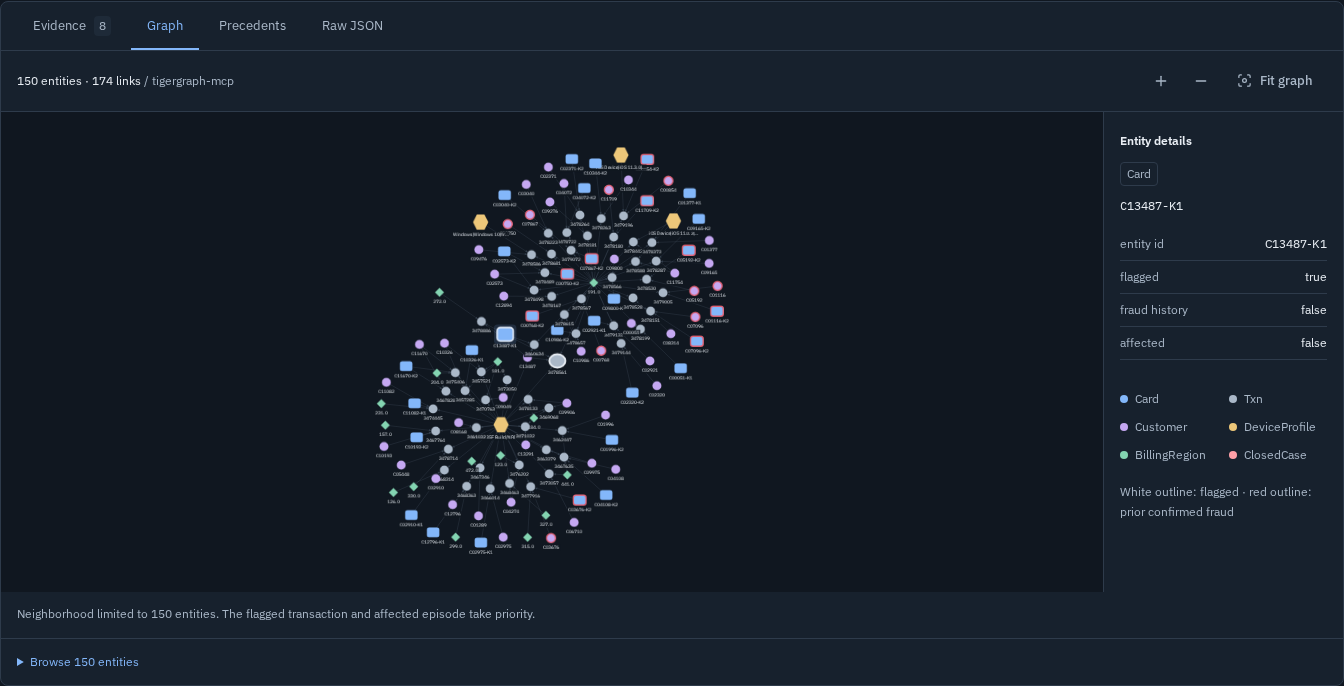
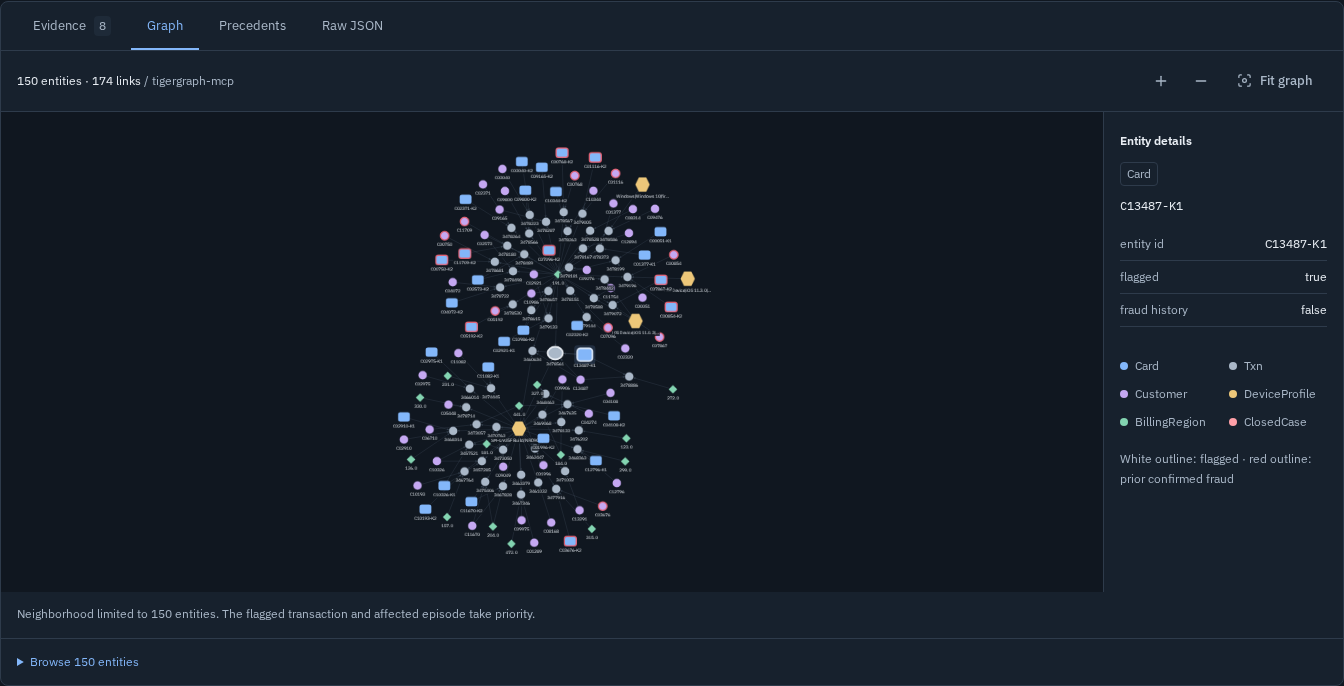
Record overnight delivery results limits and submission checklist

diff --git a/docs/MORNING_REPORT.md b/docs/MORNING_REPORT.md
@@ -1,0 +1,83 @@
+# FRAUDLOOP morning report
+
+25 September 2026 · overnight-build · completed before the 11:30 IST deadline.
+
+The analyst console, API, replay, policy audit, launch files, screenshots and writing drafts are implemented and committed locally. **Pushing is blocked because this repository has no configured remote.** Three push attempts returned `fatal: No configured push destination.` The retry limit was respected; no remote was invented, no history was rewritten, and `submission-safe-v1` was not changed.
+
+The **20 graded answers are byte-for-byte unchanged**, including versus `submission-safe-v1`: **9 fraud, 8 legitimate, 3 uncertain; 2 SAR recommendations**, on HHG-006 and HHG-014. `.env` and the original transaction store also match their starting checksums. No schema change, graph reset, embedding job, answer regeneration, external bank action, or social post was performed. All demo servers started for testing have been stopped.
+
+## Start the demo
+
+Dependencies are installed in this checkout. From the repository root:
+
+```bash
+make demo
+```
+
+- Console: **http://localhost:5173**
+- API: **http://127.0.0.1:8000**
+- Interactive API documentation: **http://127.0.0.1:8000/docs**
+- Press **Ctrl+C** to stop both servers. The launcher refuses occupied ports and cleans up only its own processes.
+
+Use **Replay** on **HHG-014** for the shared-device investigation and L2 SAR/card-block routes. Use **HHG-002** for the explicit simulated confirmation that changes the recommendation: probability 0.4335 to 0.04, verification/monitoring to closure as legitimate. For a demo with all graph views using prepared local data, run `FRAUDLOOP_LOCAL_ONLY=1 make demo`.
+
+**Run live** invokes the real agent and saves a separate runtime snapshot. Graded answers remain untouched. Backend narration defaults to templates; `FRAUDLOOP_ENABLE_LLM=1 make demo` enables the configured text chain with a persistent 60-attempt budget. Live retrieval can require query-embedding providers and quota, so use Replay while recording.
+
+## Completed by phase
+
+| Phase | Delivered | Verification / limits |
+|---|---|---|
+| 1 · Policy audit | [All 20 cases tabulated](policy-audit.md): verdict, probability, pattern, exposure, links, actions/routes, SAR, evidence changes and stopping. | No unambiguous violation warranted changing policy or answers. All 20 validate. Audit discusses coarse-fingerprint and HHG-006 R9 interpretation limits. |
+| 2 · Backend | All requested FastAPI routes, background POST SSE, serialized MCP access, GSE write guards, trigger creation, bounded graphs, cached health/index status, role approvals and persistent audit. | Endpoint smoke passed, including expected viewer 403. Real local benchmark and new runtime investigations passed. Two later runtime runs proved earlier runtime memory is retrievable and validates. |
+| 3 · Frontend | Queue/filter/sort/new-trigger dialog; three-column detail with timeline, NBA comparison, SAR and evidence/graph/precedent/JSON tabs; approvals and memory; dark/light themes and service status. | Production build and TypeScript pass. Playwright passed replay, roles, data tabs, light theme, dialog focus and 375/768/1280/1600px layouts with zero console errors. |
+| 4 · Reliability / delivery | Optional core event hooks; `run_cases` timeline capture; 20 committed replay files; Makefile, cleanup-aware launcher, Dockerfiles/Compose, architecture/setup README and seven screenshots. | `make demo` was run and stopped successfully. Shell and both Compose configurations validate. Images were not built or launched: Docker VM headroom is too small; see limits below. |
+| 5 · Writing | [Blog](blog.md), [four-minute video script](video-script.md), [social drafts](social-post.md). | Blog: 1,425 words. LinkedIn: about 150 words. X: 243 characters including link placeholders. Nothing published. |
+| 6 · Report / handoff | This report, [running log](overnight-log.md), updated AGENTS.md and milestone commits. | Local delivery complete. Push requires an actual remote destination. |
+
+The replay files contain **537 events** reconstructed from the preserved answers and original traces. They are explicitly labeled; missing historical per-tool timings and row counts are `null`, never invented. Original trace offsets are retained and playback delays are illustrative. Newly run investigations record measured events. Replay itself makes no graph or LLM calls; separately opened graph views and health indicators may perform read-only MCP calls unless local-only mode is enabled.
+
+Independent review found and fixed four issues before delivery: earlier runtime IDs missing from validation, failed live runs replacing good replay, graph audit history lost on rerun, and approvals reused after changed evidence. The backend now atomically promotes answer/trace/timeline snapshots before `done`, preserves failed attempts separately, validates persisted runtime trigger identities, retains approval history, and renews approvals for changed evidence.
+
+## Validation
+
+| Command / check | Result |
+|---|---|
+| `.venv/bin/python -m pytest -q` | **212 passed in 4.88s**, including the final structured-logging regression check. |
+| `.venv/bin/python -m scripts.validate` | All 20 answers pass schema, identifiers, exposure, chronology, routes and policy checks. |
+| `.venv/bin/python -m pip check` | No broken requirements. |
+| `npm --prefix frontend run build` | Pass; React production assets generated. |
+| `cd frontend && npx tsc --noEmit` | Pass. |
+| `scripts/smoke_api.sh` against isolated uvicorn | Every endpoint returned success; viewer approval returned expected 403. Replay completed. Only an isolated queued trigger was created. |
+| `.venv/bin/python -m scripts.browser_smoke` with installed Playwright/Chromium | Pass against the final reviewed backend; zero console errors. No live run or approval submission. |
+| `bash -n scripts/demo.sh scripts/run_cases_guarded.sh scripts/smoke_api.sh` | Pass. |
+| `docker compose config --quiet` and graph-override variant | Pass. No image build or Compose deployment. |
+| `git diff --check` and preservation checks | Pass; graded answers, `.env`, store and safe tag preserved. No prohibited data/secrets tracked. |
+
+Read-only live health verified **GSE, GPE and RESTPP up**, and the official MCP session initialized. HHG-014 graph exploration returned **150 entities and 174 links**. The actual MCP `get_node` response for HHG-014 was checked against the audit adapter's parser. No live graph write or live Gemini narration was performed during validation; write guards, partial audit upserts and role permissions have regression coverage, while actual state-machine execution was tested with isolated local data and no model calls.
+
+Evidence files retained locally under ignored `data/runs/`: `backend_core_integration.json`, `backend_final_integration.json`, `backend_mcp_read_smoke.json`, and `browser_smoke.json`. Screenshots are committed under [docs/screenshots](screenshots/): queue, HHG-014 detail, graph, approvals, memory, light memory, and mobile case.
+
+## Failures, recovery and limits
+
+- **Push blocked:** `fatal: No configured push destination.` Three attempts, then stopped that step. Configure the intended remote yourself and run `git push -u origin overnight-build`; do not force-push or merge to main for this delivery.
+- **Sandbox Docker access:** `permission denied while trying to connect to the docker API at unix:///home/utkarsh/.docker/desktop/docker.sock`. Authorized elevated execution resolved the read-only checks.
+- **Initial dependency download:** `Failed to resolve 'pypi.org' ([Errno -2] Name or service not known)` followed by `No matching distribution found for fastapi<1,>=0.115`. This was sandbox DNS/network access, not a missing package; authorized installation succeeded. FastAPI 0.141.1 and Playwright 1.63.0 are installed in `.venv`.
+- **Sandbox TestClient hang:** the focused backend run stalled without a Python application exception. The same tests and complete suite passed outside that restriction.
+- **Browser selector error:** `Locator expected to be disabled` / `element(s) not found`. The test used `Approve` while accessible labels include the action and case; the selector was corrected.
+- **Mobile overflow:** `AssertionError: ('/', 375, {'width': 375, 'scroll': 1045})`. Hidden table labels escaped the scroll container. A positioned container fixed it; all four viewport sizes subsequently passed.
+- **Docker images unverified:** `tg` used **2.965 GiB of a 3.647 GiB Docker VM**. Images and Compose runtime were deliberately not exercised alongside that load. Use the verified native `make demo` path; allocate adequate Docker memory before trying container builds or live container investigations.
+- **Model/vector limits:** validation consumed **zero LLM calls** and started no embedding jobs. Snapshot checkpoint coverage was gem001 1,500/5,577, gem2 259/5,577, BGE 5,577/5,577, Gemma 0, preview 0. These are previous-upload checkpoints, not fresh graph vector inventory. Live text availability and model downloads were not re-established.
+- **Demo permissions:** `X-Role` is a local demonstration switch, not authenticated bank identity. Approval records do not execute actions. Keep the service on a trusted workstation.
+
+## Ten checks before submission
+
+1. [ ] Run `make validate` and confirm all 20 graded files pass.
+2. [ ] Read [policy-audit.md](policy-audit.md), especially shared-profile interpretation and HHG-006 versus HHG-014.
+3. [ ] Run `make test` and `npm --prefix frontend run build` in your final checkout.
+4. [ ] Start `make demo`; confirm queue, detail, graph, approvals and memory open.
+5. [ ] Rehearse HHG-014 and HHG-002 using **Replay**, retaining reconstructed-event and simulation disclosures.
+6. [ ] Check the role switch: viewer cannot decide, L1 cannot decide L2, and L2 can review both; do not confuse approval with execution.
+7. [ ] Review screenshots and record the four-minute video using [video-script.md](video-script.md).
+8. [ ] Review the blog/social drafts and replace `[BLOG_LINK]` / `[VIDEO_LINK]`; publish only after your review.
+9. [ ] Configure the correct Git remote, inspect `git ls-files` for secrets/datasets, then push **overnight-build** without force or a main merge; preserve `submission-safe-v1`.
+10. [ ] Confirm the submission links and `cases/HHG-001.json` through `HHG-020.json` are accessible, then stop demo servers with Ctrl+C.

diff --git a/AGENTS.md b/AGENTS.md
@@ -191,3 +191,18 @@ Cache: `data/embeddings/gemini-embedding-001-768.json`. Model: `gemini-embedding
 - After a successful Gemma encode during ingestion, actual device/batch size/precision are logged and recorded in the Gemma entry of `data/embedding_indexes.json`, run status, and `data/embedding_index.json` under `runtime.gemma`. Legacy ownership/recovery fields are preserved. Local graph runs use separate `.local.json` manifests. `scripts.embed_status` reports the last recorded ingestion device, or `unknown`; cached-only runs preserve existing device metadata. Query-only embedding calls do not rewrite ingestion metadata.
 - `.env.example` and README document the setting; the existing `.env` was not edited. No ingestion, graph migration, model download, or answer regeneration was performed. Runtime manifests are populated on the next successful Gemma ingestion, not fabricated from device availability.
 - Verification: `.venv/bin/python -m pytest -q` passed **159 tests**; `.venv/bin/python -m scripts.validate` validated all 20 saved answers; the read-only `scripts.embed_status` command and `git diff --check` passed. Device/OOM and ingestion-persistence checks use mocked torch/model calls, including local-manifest isolation. PyTorch was absent in this virtual environment, so real CUDA execution was not verified.
+
+
+## Overnight console delivery (2026-09-25)
+
+- The explicit overnight request authorized the React/FastAPI UI. Work was performed only on `overnight-build`; `submission-safe-v1` and all 20 `cases/*.json` files are unchanged. Phase 1 policy audit found no unambiguous violation requiring regeneration: 9 fraud, 8 legitimate, 3 uncertain; 2 SAR recommendations. See `docs/policy-audit.md`.
+- `backend/app.py`, `backend/data.py`, and `backend/services.py` expose the requested queue, detail, timeline, POST SSE live/replay, new-trigger, graph, precedent, approval, health and memory endpoints. One live run and MCP access are serialized. GSE status/restart guards precede writes; unavailable graph operations use a disclosed local fallback. No schema or embedding job was run.
+- The core has only additive optional `emit(event_type, payload)` observers in `agent/investigate.py`, with helpers in `agent/events.py`. Policy/assessment/model/embedding/answer behavior is preserved. `scripts.run_cases` saves actual events to `data/timelines/`; `scripts.replay_timelines` produced 20 explicitly reconstructed legacy timelines from preserved answers/traces. Missing historical tool durations/rows are null.
+- API live results use atomic `data/runtime_cases/<id>.json` snapshot envelopes containing answer, trace, timeline and run_id. Repository helpers unwrap them. Failed attempts go to `data/runtime_failed_timelines/` and cannot replace a successful replay. API runs never write graded cases or the original pickle. All authentic persisted runtime triggers enter the in-memory validation pack; only earlier saved agent conclusions seed local memory.
+- Approval identity includes the answer's case/SAR/actions so changed evidence requires new review. Durable local approval records and existing graph audit entries are merged before subsequent FraudCase upserts. X-Role is a local demo permission switch, not authentication; no bank action is executed.
+- `frontend/` is React 18/Vite/TypeScript/Tailwind/TanStack Query/Cytoscape. Queue, three-column case detail, approvals and memory work with dark/light themes, responsive views, replay and live stream controls. Saved provenance and graph-write status are labeled honestly.
+- `make demo` starts the native backend and frontend with owned-process cleanup. URLs: http://localhost:5173 and http://127.0.0.1:8000/docs. Use `FRAUDLOOP_LOCAL_ONLY=1 make demo` for fully local views. Backend narration is template by default; `FRAUDLOOP_ENABLE_LLM=1` enables the chain with a persistent 60-attempt budget.
+- Docker/Compose files are present and configuration-validated, but images were not built/run because the existing tg container used 2.965 GiB of a 3.647 GiB VM. Use native startup for the verified demo. Graph Compose override opts into the Docker socket and should remain local.
+- Final verification: 212 Python tests passed in 4.88s, all 20 answers validate, frontend build/TypeScript/pip/diff checks pass. Four real isolated local investigations included new CASE IDs and earlier-runtime retrieval; zero LLM calls and zero live graph writes. Read-only MCP health/get_node/neighborhood worked. Browser replay/roles/theme/focus/responsive checks passed with no console errors. Structured API logs emit JSON once per request and omit request contents.
+- Seven screenshots and blog/video/social drafts are committed in docs. `docs/MORNING_REPORT.md` and `docs/overnight-log.md` are the delivery handoff. All assistant-started demo servers were stopped.
+- No Git remote was configured. Three milestone pushes failed with `fatal: No configured push destination.` Work is committed locally; configure the intended destination before pushing overnight-build. Never force-push, merge to main, or modify the safe tag to finish this delivery.

diff --git a/docs/overnight-log.md b/docs/overnight-log.md
@@ -14,3 +14,12 @@ Deadline: 25 September 2026, 11:30 IST. Started 25 September, approximately 02:2
 | 02:30 | 3 | Queue, filters, sorting, trigger dialog, shell, role switch, themes | `npm run build` and `npx tsc --noEmit` passed. Browser review follows integration. |
 | 02:34 | 2/4 | Event hooks and 20 reconstructed replay timelines | 8 focused observer tests and all 20 answers validate. No answer, graph or model changes; original per-query timings remain unavailable. |
 | 02:34 | 3 | Case Detail with timeline, graph, evidence and before/after actions | Production React build passed; browser verification pending. |
+| 02:40 | Push | Three requested milestone push attempts after tracked-file checks | All failed: `fatal: No configured push destination.` Retry limit reached; further pushes skipped. Local commits retained on overnight-build. |
+| 02:40 | 2/3 | API endpoint smoke, real local benchmark + runtime investigation, UI first pass | 37 backend tests; endpoint smoke passed; two local core runs validated with zero tokens/graph=false; four pages rendered without JS exceptions; live read-only MCP graph returned 150 entities/174 links. |
+| 02:40 | Review | Independent review found runtime memory-ID, failed-replay preservation, approval-history and stale-approval issues | Fixes in progress before final backend validation. |
+| 02:46 | 3 | Browser interaction + responsive verification | Passed replay HHG-014/002, role controls, precedents, JSON, memory, light theme and dialog focus; no console errors; no page overflow at 375/768/1280/1600px. |
+| 02:46 | 3 | Fixed browser test and mobile overflow | First script used a nonmatching accessible name (`Locator expected to be disabled; element(s) not found`); corrected selector. Actual layout failed at 375px (`scroll:1045`); positioned table scroll container to contain hidden labels, then all widths passed. |
+| 02:46 | 4 | Docker resource preflight | tg uses 2.965 GiB of 3.647 GiB VM; Compose config validated, image builds/runtime deliberately not attempted with this headroom. |
+| 02:52 | 2/3 | Final review and validation | 211 Python tests passed in 5.86s; 20 answers validate; pip check and diff whitespace clean; React production build and TypeScript pass; independent review cleared all four fixes. |
+| 02:52 | 4/5 | Delivery artifacts | Makefile/Compose/shell checks pass; make demo launched and cleaned up successfully; seven real Playwright screenshots saved; blog 1,425 words, four-minute video script, LinkedIn and X drafts complete. No posts sent. |
+| 02:58 | 2/6 | Final logging regression, cleanup and handoff | 212 tests passed in 4.88s. Structured request logs emit JSON once and omit request contents. Ports 8000/5173 are stopped and no owned demo launcher remains. Final report records all completed phases, preserved answers, exact failures and submission checklist; pushing remains blocked after three attempts by the missing remote. |
